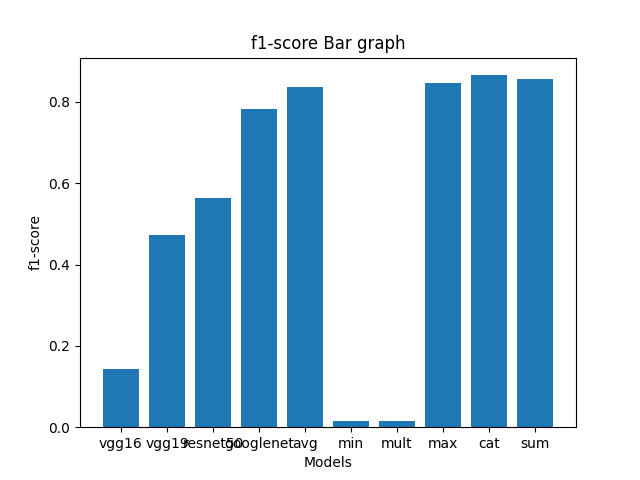
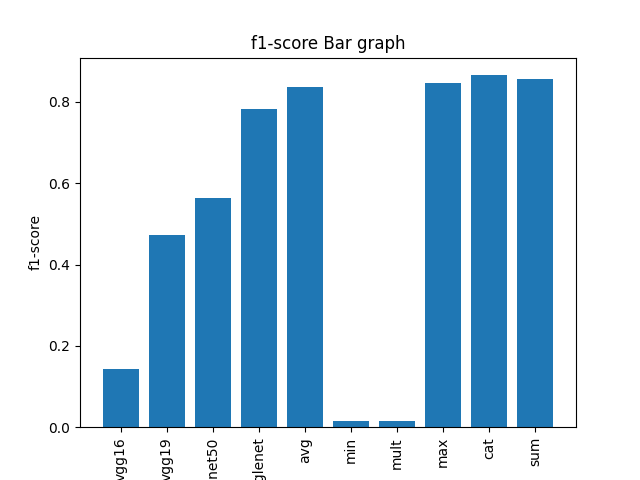
updated metrics etc

diff --git a/dcnn/metrics_agg.py b/dcnn/metrics_agg.py
@@ -16,7 +16,7 @@ def create_bar(dcnns, fusions,  col, path="metrics"):
         val.append(m)
 
     plt.bar(cat, val)
-    
+    plt.xticks(rotation=90)
     plt.xlabel('Models')
     plt.ylabel(f"{col}")
     plt.title(f"{col} Bar graph")
